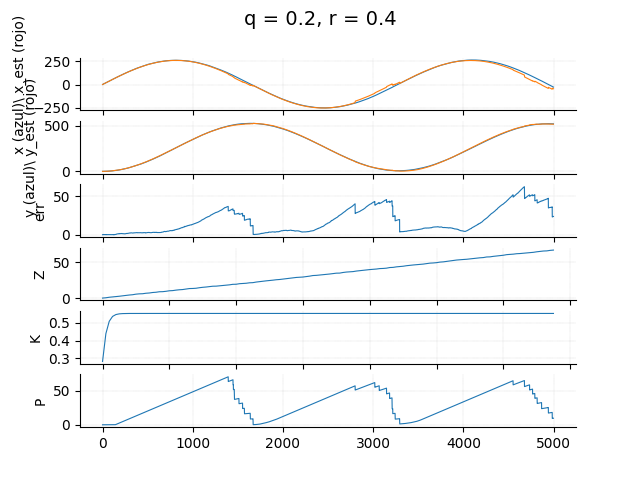
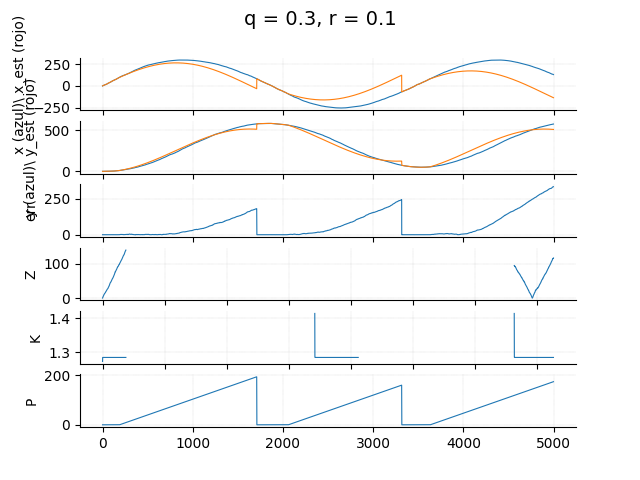
nada

diff --git a/TwoDim/main.py b/TwoDim/main.py
@@ -10,14 +10,14 @@ import math
 dist = 200    # (m) este parámetro no se cambia
 t_max = 5000  # (s) este parámetro no se cambia
 
-seeds = [123456789, 234567891, 34567891, 456789123, 567891234, 67891234, 7891234, 89123456, 912345678, 213456789]
-#seeds = [123456789]
+#seeds = [123456789, 234567891, 34567891, 456789123, 567891234, 67891234, 7891234, 89123456, 912345678, 213456789]
+seeds = [123456789, 123456789]
 
 #q_set = [0.2, 0.4, 0.5, 0.7]
 #r_eval = [0.2, 0.3, 0.4, 0.8]
-q_set = [0.2]
-r_eval = [0.4]
-rango_set = [70]
+q_set = [0.3]
+r_eval = [0.1]
+rango_set = [100]
 
 #Ctes iniciales
 v_lin = 0.5     #Velocidad lineal m/s
@@ -45,7 +45,8 @@ with open('log.csv','w', newline='') as file:
             err = []
             x_est = []
             y_est = []
-            z = []
+            zx = []
+            zy = []
             Kx = []
             Ky = []
             px = []
@@ -56,7 +57,8 @@ with open('log.csv','w', newline='') as file:
                     err.append(sum(estados2[k]['err'][l] for k in range(len(estados2)))/len(estados2))
                     x_est.append(sum(estados2[k]['x_est'][l][0] for k in range(len(estados2)))/len(estados2))
                     y_est.append(sum(estados2[k]['x_est'][l][1] for k in range(len(estados2)))/len(estados2))
-                    z.append(sum(estados2[k]['z'][l][1] for k in range(len(estados2)))/len(estados2))
+                    zx.append(sum(estados2[k]['z'][l][1] for k in range(len(estados2)))/len(estados2))
+                    zy.append(sum(estados2[k]['z'][l][1] for k in range(len(estados2)))/len(estados2))
                     Kx.append(sum(estados2[k]['k'][l][0] for k in range(len(estados2)))/len(estados2))
                     Ky.append(sum(estados2[k]['k'][l][1] for k in range(len(estados2)))/len(estados2))
                     px.append(sum(estados2[k]['p'][l][0] for k in range(len(estados2)))/len(estados2))
@@ -73,6 +75,7 @@ with open('log.csv','w', newline='') as file:
             yest_var = np.std(y_est)
             p = [math.sqrt(px[k]**2 + py[k]**2) for k in range(t_max)]
             K = [math.sqrt(Kx[k]**2 + Ky[k]**2) for k in range(t_max)]
+            z = [math.sqrt(zx[k]**2 + zy[k]**2) for k in range(t_max)]
             
             fila = [x_mean, x_var, y_mean, y_var, xest_mean, xest_var, yest_mean, yest_var, err_mean, err_var]
             writer.writerow(fila)

diff --git a/TwoDim/plots.py b/TwoDim/plots.py
@@ -3,10 +3,10 @@ import math
 import numpy as np
 
 def plot_estados(estados, q, r, m, rango_sensor, file=None, ymax=None):
-    '''
+   # '''
     disp = plt.figure(num="MovimientoCircular",figsize=(5,5))
-    plt.plot(estados['x'], estados['y'], color='red' linewidth=1, label="Real")
-    plt.plot(estados['x_est'],estados['y_est'], linestyle='dashed', color='blue', linewidth=1 , label="Estimado")
+    plt.plot(estados['x_est'],estados['y_est'], linestyle='dashed', linewidth=1 , label="Estimado")
+    plt.plot(estados['x'], estados['y'], linewidth=1, label="Real")
 
     #Circunferencia de radio = rango_sensor
     angles = np.linspace(0, 2*math.pi, 150)
@@ -26,7 +26,7 @@ def plot_estados(estados, q, r, m, rango_sensor, file=None, ymax=None):
     plt.show()
 
     plt.close()
-    '''
+    #'''
     fig, axes = plt.subplots(6,1)
     timesim = list(range(0, len(estados)))
     axes[0].plot(timesim, estados['x'], linewidth=0.8)

diff --git a/TwoDim/global.py b/TwoDim/global.py
@@ -10,7 +10,7 @@ q = 0.3 ** 2
 r = 0.1 ** 2
 rango_sensor = 100
 t_max = 5000
-
+rnd.seed(123456789)
 
 #Constantes iniciales
 v_lin = 0.5     #Velocidad lineal m/s
